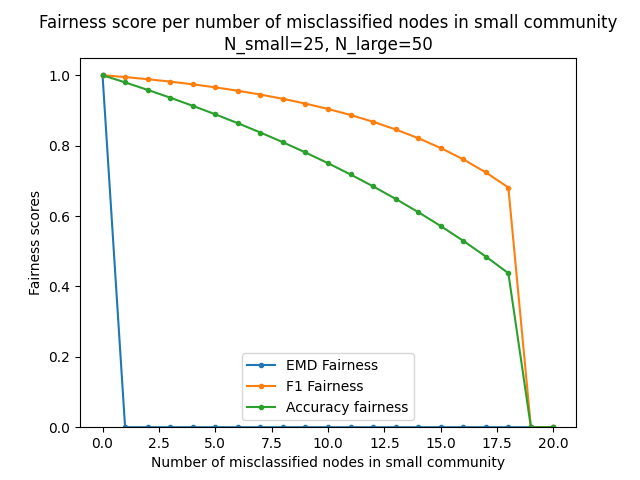
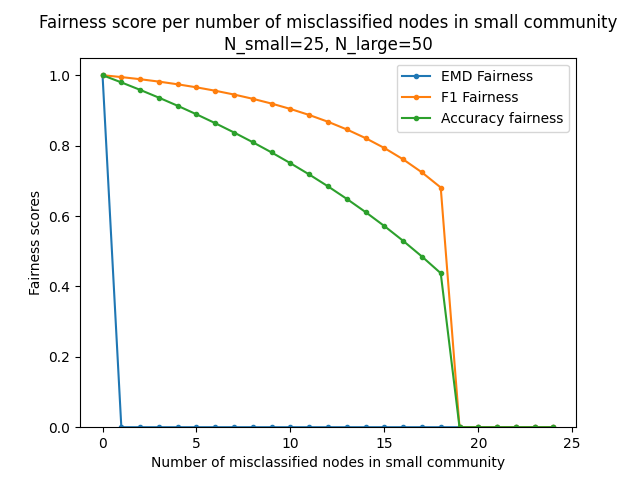
Misclassify all nodes instead of only 20

diff --git a/casestudy_arguing_fair_metric.py b/casestudy_arguing_fair_metric.py
@@ -186,10 +186,10 @@ for G in graph:
         "in small or large community, N_small=25, N_large=50",
     )
 
-    misclassified_nodes = list(range(0, 21))
     small_large = ["small", "large"]
 
     for size in small_large:
+        misclassified_nodes = list(range(eval(f"num_{size}")))
         emd = []
         f1 = []
         acc = []
@@ -263,14 +263,13 @@ for G in graph:
         communities=communities,
     )
 
-    misclassified_nodes = list(range(0, 21))
     small_large = ["small", "large"]
     emd = []
     f1 = []
     acc = []
 
-    for num_misclassified_nodes_large in misclassified_nodes:
-        for num_misclassified_nodes_small in misclassified_nodes:
+    for num_misclassified_nodes_large in range(num_large):
+        for num_misclassified_nodes_small in range(num_small):
             mislabel_comm_nodes = {
                 "small": num_misclassified_nodes_small,
                 "large": num_misclassified_nodes_large,
@@ -330,7 +329,7 @@ for G in graph:
             )
 
     # Creating array for F1 heatmap
-    f1_arr = np.empty((len(misclassified_nodes), len(misclassified_nodes)))
+    f1_arr = np.empty((num_large, num_small))
     for large, small, score in f1:
         f1_arr[large][small] = score
 
@@ -341,7 +340,7 @@ for G in graph:
         filename="varying_misclassified_nodes_small_large_heatmap_f1",
     )
 
-    acc_arr = np.empty((len(misclassified_nodes), len(misclassified_nodes)))
+    acc_arr = np.empty((num_large, num_small))
     for large, small, score in acc:
         acc_arr[large][small] = score
 
@@ -352,7 +351,7 @@ for G in graph:
         filename="varying_misclassified_nodes_small_large_heatmap_acc",
     )
 
-    emd_arr = np.empty((len(misclassified_nodes), len(misclassified_nodes)))
+    emd_arr = np.empty((num_large, num_small))
     for large, small, score in emd:
         emd_arr[large][small] = score
 
